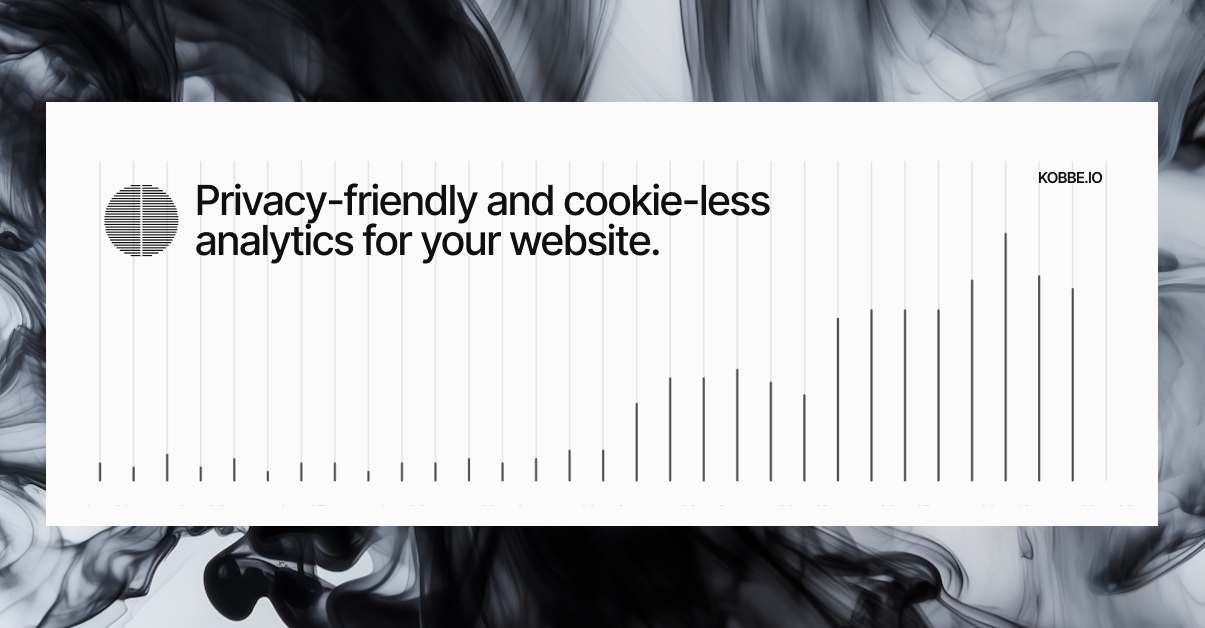
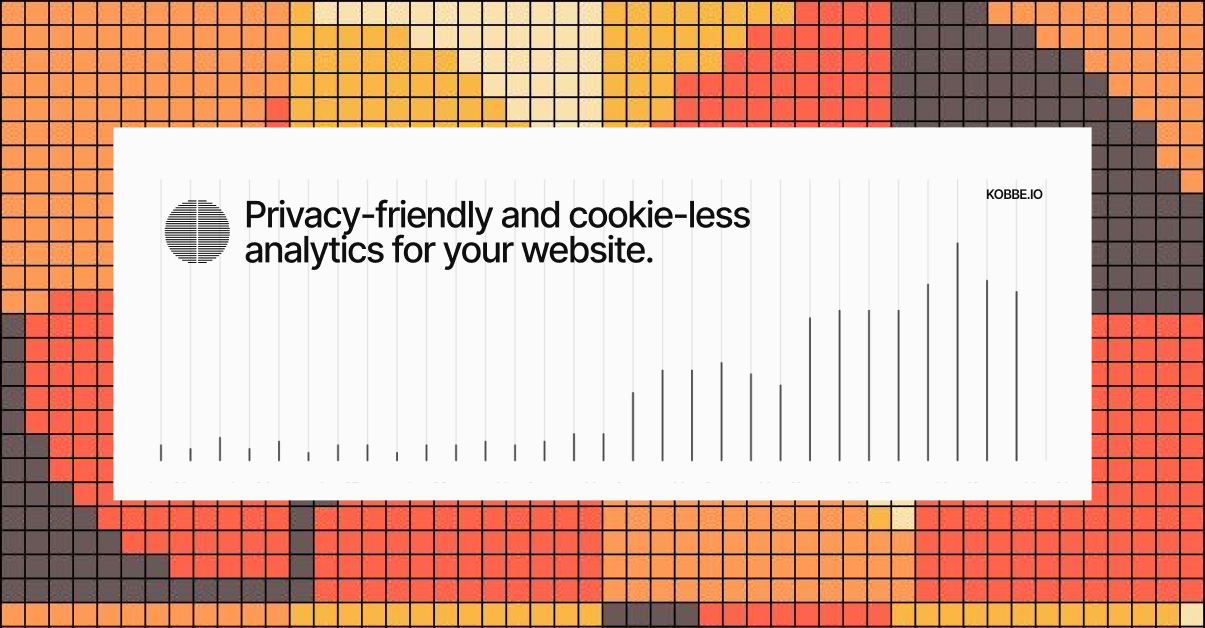
changed bg image

diff --git a/src/components/sections/pricing/pricing-section.tsx b/src/components/sections/pricing/pricing-section.tsx
@@ -37,13 +37,13 @@ function PricingFeatureMark() {
     >
       <path
         d="M295.5 246.25V0H246.25V246.25H0V295.5H246.25V541.75H295.5V295.5H541.75V246.25H295.5Z"
-        className="fill-background/70"
+        className="fill-muted-foreground/80"
       />
       <rect
         width="63"
         height="63"
         transform="translate(239.875 239.875)"
-        className="fill-foreground"
+        className="fill-background"
       />
     </svg>
   );
@@ -71,48 +71,46 @@ function PricingTierPanel({
   period: BillingPeriod;
 }) {
   return (
-    <article className="bg-foreground text-background relative flex h-full w-full flex-col justify-between p-8">
+    <article className="bg-background text-foreground relative grid h-full w-full grid-rows-[auto_1fr_auto_auto] p-8">
       {popular ? (
-        <span className="text-background/70 absolute top-4 right-4 text-[10px] font-semibold tracking-wide uppercase">
+        <span className="text-muted-foreground absolute top-4 right-4 text-[10px] font-semibold tracking-wide uppercase">
           Popular
         </span>
       ) : null}
       <div>
-        <h3 className="text-background font-display text-2xl font-medium tracking-tight italic sm:text-2xl md:text-3xl lg:text-4xl 2xl:text-4xl">
+        <h3 className="text-foreground font-display text-2xl font-medium tracking-tight italic sm:text-2xl md:text-3xl lg:text-4xl 2xl:text-4xl">
           {name}
         </h3>
-        <p className="text-background/70 mt-1 text-base font-medium">
+        <p className="text-muted-foreground mt-1 text-base font-medium">
           {tagline}
         </p>
 
         <div className="mt-8 flex flex-wrap gap-x-6 gap-y-1 lg:items-center">
-          <p className="text-background font-display text-4xl tracking-tighter italic sm:text-4xl md:text-5xl lg:text-6xl">
+          <p className="text-foreground font-display text-4xl tracking-tighter italic sm:text-4xl md:text-5xl lg:text-6xl">
             {priceAmount}
           </p>
           <div>
-            <p className="text-background flex items-center gap-1 text-sm font-medium tracking-tight lg:text-sm">
+            <p className="text-foreground flex items-center gap-1 text-sm font-medium tracking-tight lg:text-sm">
               {pricePeriod}
             </p>
-            <p className="text-background/70 text-sm lg:text-sm">
+            <p className="text-muted-foreground text-sm lg:text-sm">
               + applicable taxes
             </p>
           </div>
         </div>
-
-        <ul
-          className="text-background mt-12 list-none gap-1 space-y-1 font-medium 2xl:space-y-2"
-          role="list"
-        >
-          {features.map((feature) => (
-            <li key={feature} className="relative">
-              <div className="flex items-start gap-2">
-                <PricingFeatureMark />
-                <p className="text-base tracking-tight">{feature}</p>
-              </div>
-            </li>
-          ))}
-        </ul>
       </div>
+
+      <ul
+        className="text-foreground mt-12 list-none space-y-1 self-start font-medium 2xl:space-y-2"
+        role="list"
+      >
+        {features.map((feature) => (
+          <li key={feature} className="flex items-start gap-2">
+            <PricingFeatureMark />
+            <p className="text-base tracking-tight">{feature}</p>
+          </li>
+        ))}
+      </ul>
 
       <div className="mt-8">
         <a
@@ -120,7 +118,7 @@ function PricingTierPanel({
           data-kobbe-event={`Pricing — ${name} ${period}`}
           className={cn(
             buttonVariants({
-              variant: popular ? "brand" : "secondaryDark",
+              variant: popular ? "brand" : "default",
               size: "sm",
             }),
             "w-full justify-center",
@@ -128,10 +126,11 @@ function PricingTierPanel({
         >
           {ctaLabel}
         </a>
-        <p className="text-background/70 mt-2 text-center text-xs">
-          {pricingTrialDays}-day trial · no card required
-        </p>
       </div>
+
+      <p className="text-muted-foreground mt-2 text-center text-xs">
+        {pricingTrialDays}-day trial · no card required
+      </p>
     </article>
   );
 }
@@ -206,9 +205,15 @@ function PricingVolumeTable({
 
 export function PricingSection({
   appBaseUrl = "https://app.kobbe.io",
+  paintSrc,
+  paintWidth,
+  paintHeight,
   className,
 }: {
   appBaseUrl?: string;
+  paintSrc: string;
+  paintWidth: number;
+  paintHeight: number;
   className?: string;
 }) {
   const [period, setPeriod] = useState<BillingPeriod>("monthly");
@@ -224,25 +229,44 @@ export function PricingSection({
         <BillingPeriodTabs period={period} onPeriodChange={setPeriod} />
       </div>
 
-      <div className="mt-8 grid grid-cols-1 gap-x-4 gap-y-8 lg:grid-cols-3">
-        {pricingPlanCards.map((plan) => {
-          const tier = getPricingTierByKey(plan.tierKey);
+      <div className="relative mt-10 overflow-hidden px-4 py-12 sm:px-8 lg:p-12">
+        <img
+          src={paintSrc}
+          alt=""
+          aria-hidden="true"
+          loading="lazy"
+          decoding="async"
+          width={paintWidth}
+          height={paintHeight}
+          className="absolute inset-0 size-full bg-cover object-cover"
+        />
 
-          return (
-            <PricingTierPanel
-              key={plan.id}
-              name={plan.name}
-              tagline={plan.tagline}
-              priceAmount={formatTierPriceAmount(tier, period)}
-              pricePeriod={formatTierPricePeriod(period)}
-              popular={plan.popular}
-              features={plan.features}
-              checkoutHref={buildSignupHref(appBaseUrl, plan.tierKey, period)}
-              ctaLabel={trialCtaLabel}
-              period={period}
-            />
-          );
-        })}
+        <div className="relative z-10">
+          <div className="grid grid-cols-1 items-stretch gap-6 lg:grid-cols-3">
+            {pricingPlanCards.map((plan) => {
+              const tier = getPricingTierByKey(plan.tierKey);
+
+              return (
+                <PricingTierPanel
+                  key={plan.id}
+                  name={plan.name}
+                  tagline={plan.tagline}
+                  priceAmount={formatTierPriceAmount(tier, period)}
+                  pricePeriod={formatTierPricePeriod(period)}
+                  popular={plan.popular}
+                  features={plan.features}
+                  checkoutHref={buildSignupHref(
+                    appBaseUrl,
+                    plan.tierKey,
+                    period,
+                  )}
+                  ctaLabel={trialCtaLabel}
+                  period={period}
+                />
+              );
+            })}
+          </div>
+        </div>
       </div>
 
       <PricingVolumeTable appBaseUrl={appBaseUrl} period={period} />